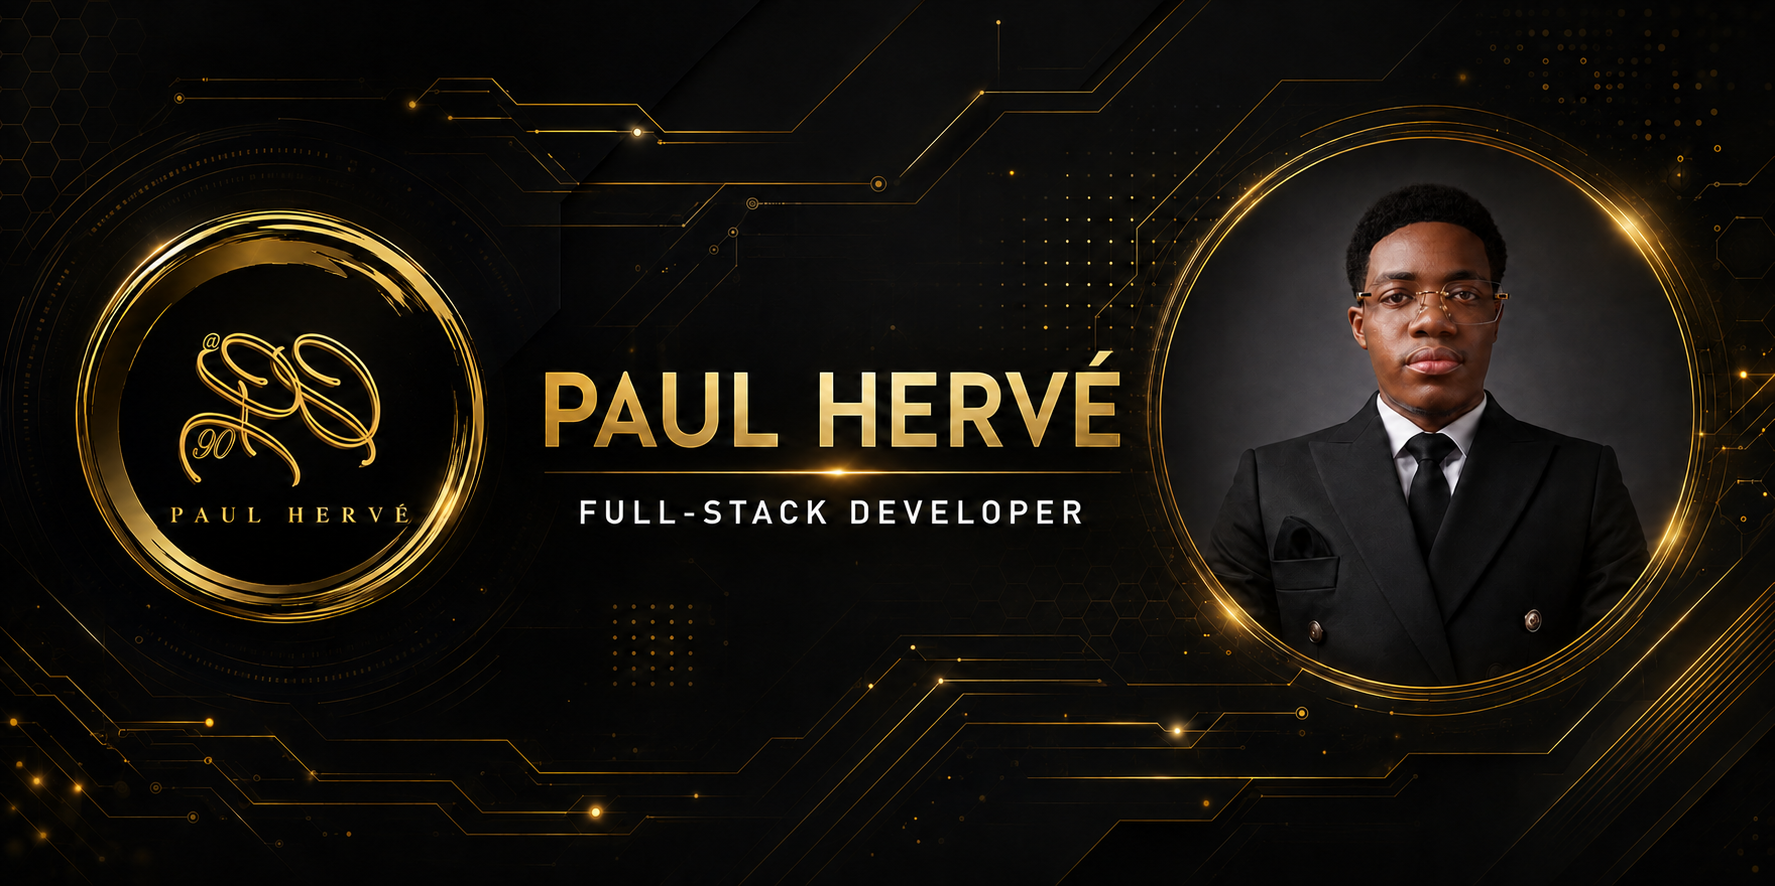
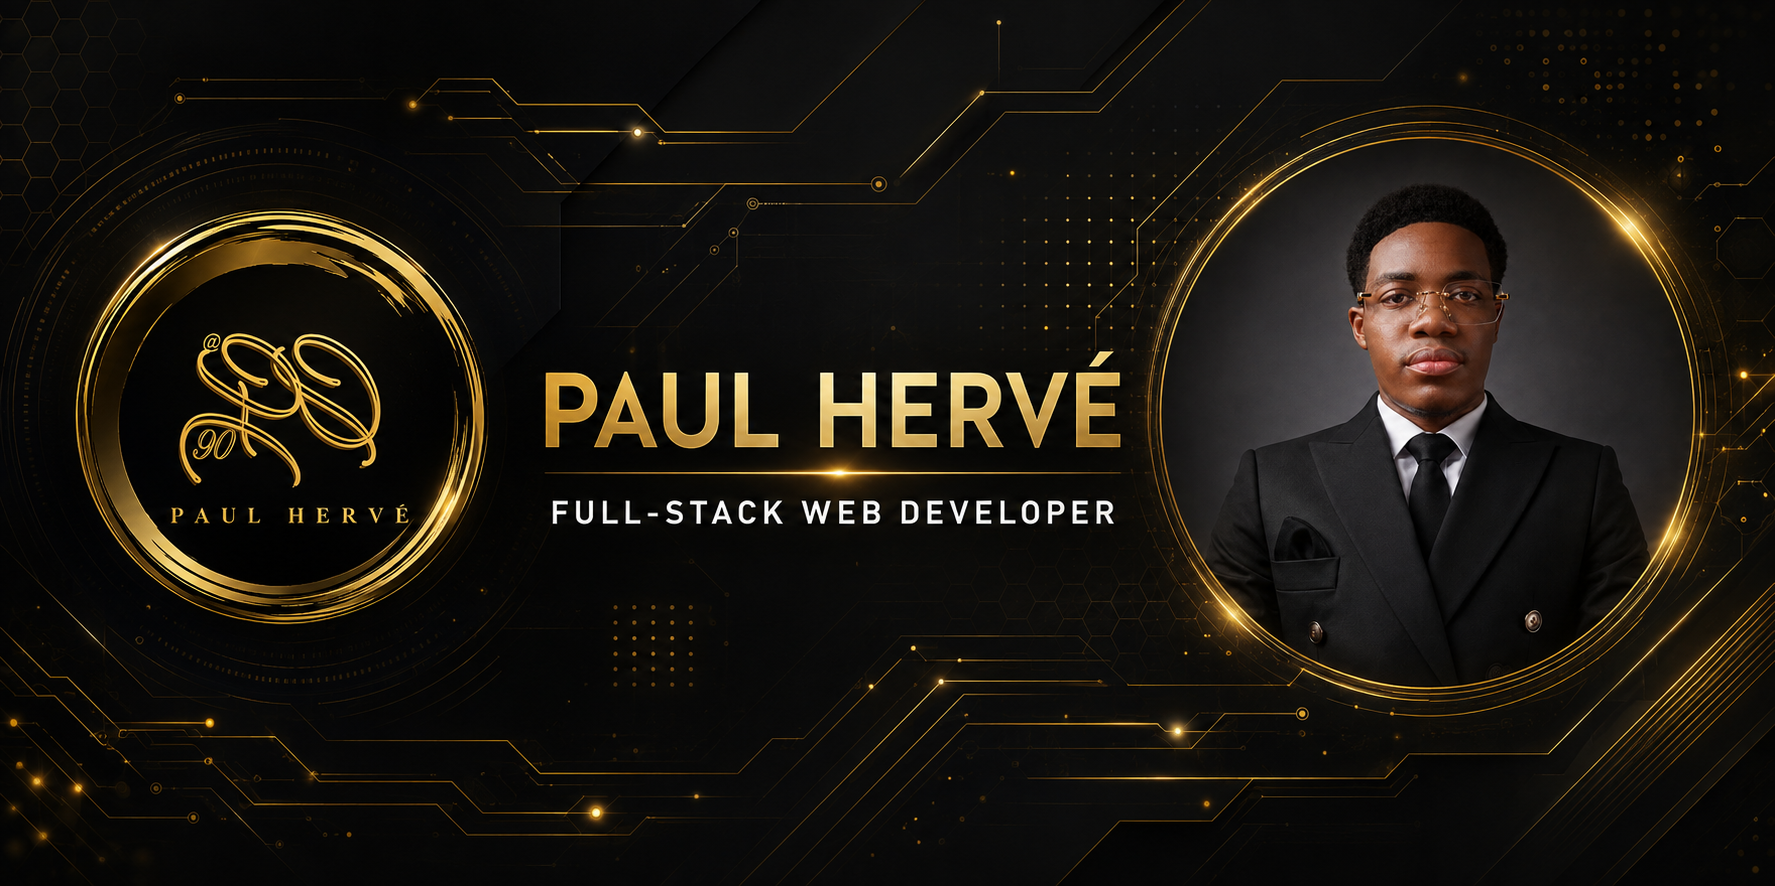
Updated the readme with the Full Stack Web developer

diff --git a/README.md b/README.md
@@ -1,10 +1,10 @@
 <div align="center">
 
-<img src="banner.png" alt="Paul Hervé — Full-Stack Developer" width="100%"/>
+<img src="banner.png" alt="Paul Hervé — Full-Stack Web Developer" width="100%"/>
 
 <br/><br/>
 
-<img src="https://readme-typing-svg.demolab.com?font=Fira+Code&size=24&duration=3000&pause=1000&color=D4AF37&center=true&vCenter=true&width=650&lines=Hi+there%2C+I'm+Paul+Herv%C3%A9+%F0%9F%91%8B;Full-Stack+Developer;Software+Engineer+%40+The+ICT+University;Turning+Ideas+Into+Scalable+Products" alt="Typing SVG" />
+<img src="https://readme-typing-svg.demolab.com?font=Fira+Code&size=24&duration=3000&pause=1000&color=D4AF37&center=true&vCenter=true&width=650&lines=Hi+there%2C+I'm+Paul+Herv%C3%A9+%F0%9F%91%8B;Full-Stack+Web+Developer;Software+Engineer+%40+The+ICT+University;Turning+Ideas+Into+Scalable+Products" alt="Typing SVG" />
 
 <br/>
 
@@ -17,7 +17,7 @@
 
 ![About Me](https://img.shields.io/badge/-ABOUT_ME-D4AF37?style=for-the-badge&labelColor=000000)
 
-Hello World! I'm **Paul Hervé** — a Full-Stack Developer who enjoys turning real problems into clean, working software.
+Hello World! I'm **Paul Hervé** — a Full-Stack Web Developer who enjoys turning real problems into clean, working software.
 
 - 🎓 **Bachelor's Degree in Software Engineering** — The ICT University *(2025)*
 - 💻 Building web applications since **2022**
